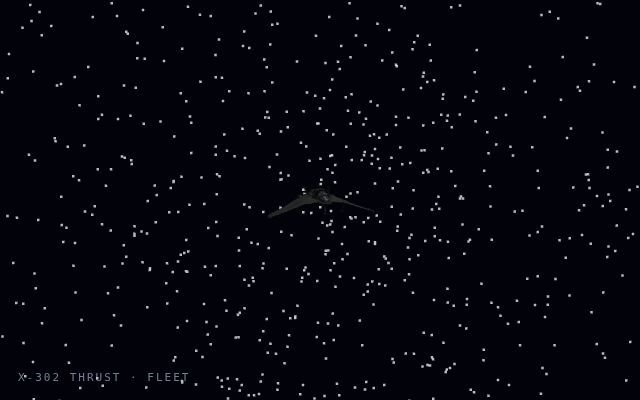
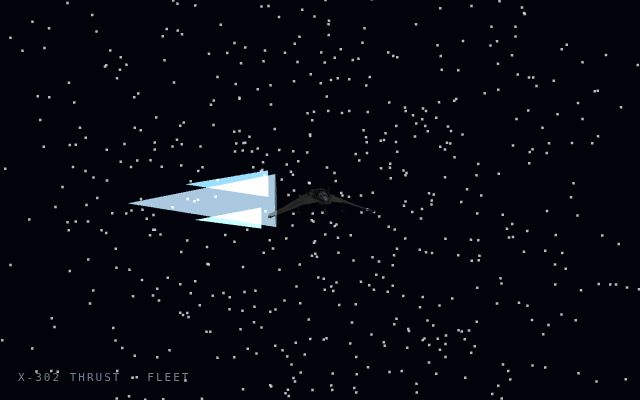
Add real additive-blended thrust fire to fighter viewer (three.js cones)

diff --git a/orbital-shipyard/fighter-thrust.html b/orbital-shipyard/fighter-thrust.html
@@ -132,13 +132,37 @@ station.scale.setScalar(SCALE);
 
 const loader = new GLTFLoader();
 
-loader.load('./assets/fleet/x302_fighter_thrust.glb', (gltf)=>{
+loader.load('./assets/fleet/x302_fighter_opt.glb', (gltf)=>{
   // textured "realistic hard sci-fi" station (base color + metal/rough maps)
   station.add(gltf.scene);
   document.getElementById('loadstatus').textContent = 'ASSETS READY';
 }, (x)=>{
   if (x.total) document.getElementById('loadstatus').textContent = 'LOADING STATION… ' + Math.floor(x.loaded/x.total*100) + '%';
 }, (e)=>{ document.getElementById('loadstatus').textContent = 'ERROR LOADING: ' + (e && e.message ? e.message : 'network'); });
+
+// ---------------- Thrust fire (additive-blended cones) ----------------
+const thrustFires = [];
+function addThrustFire(pos, radius, length, tint) {
+  const geo = new THREE.ConeGeometry(radius, length, 16, 1, true); // open cone
+  const mat = new THREE.MeshBasicMaterial({
+    color: tint,
+    transparent: true,
+    opacity: 0.75,
+    blending: THREE.AdditiveBlending,
+    depthWrite: false,
+    side: THREE.DoubleSide,
+  });
+  const fire = new THREE.Mesh(geo, mat);
+  fire.rotation.z = Math.PI / 2;          // point the cone along -X (backward)
+  fire.position.set(pos[0] - length/2, pos[1], pos[2]); // base at thruster, point extends back
+  station.add(fire);
+  thrustFires.push(fire);
+  return fire;
+}
+// 2 small flanking + 1 large center (rear = -X)
+addThrustFire([-0.50, -0.16, 0], 0.12, 0.7, 0x5599ff);
+addThrustFire([-0.50,  0.16, 0], 0.12, 0.7, 0x5599ff);
+addThrustFire([-0.50,  0.0,  0], 0.22, 1.1, 0x88ccff);
 
 // ---------------- Controls ----------------
 const controls = new PointerLockControls(camera, document.body);
@@ -171,6 +195,14 @@ function update(dt){
 
   // slow turntable spin to showcase the station from all sides
   station.rotation.y += 0.08 * dt;
+
+  // thrust fire pulse
+  const t = performance.now() / 1000;
+  thrustFires.forEach((f, i) => {
+    const pulse = 1 + Math.sin(t * 10 + i * 2.1) * 0.18;
+    f.scale.set(pulse, pulse, pulse);
+    f.material.opacity = 0.65 + Math.sin(t * 14 + i) * 0.2;
+  });
 }
 
 let last = performance.now();
